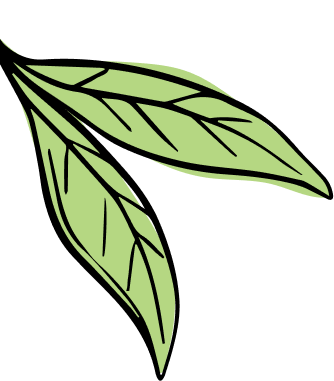
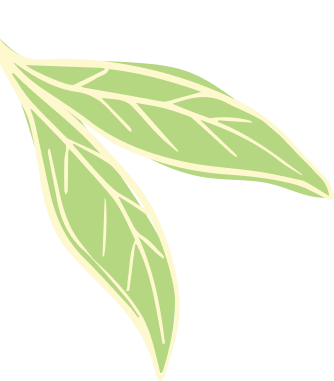
Add new vector images and enhance HeroSection layout with animated leaves and soup bowl

diff --git a/src/components/HeroSection/HeroSection.jsx b/src/components/HeroSection/HeroSection.jsx
@@ -5,11 +5,14 @@ import productWindow from "../../assets/images/vectors/product_window.png";
 import sakura from "../../assets/images/vectors/sakura.png";
 import "./HeroSection.scss";
 import checkered from "../../assets/images/vectors/checkered.png";
-import {
-  fetchShopifyProducts,
-  createShopifyCheckout,
-} from "../../utils/shopify";
+import { fetchShopifyProducts } from "../../utils/shopify";
 import Loading from "../Loading/Loading";
+
+import leaf1 from "../../assets/images/vectors/leaf1.png";
+import leaf2 from "../../assets/images/vectors/leaf2.png";
+import leaf3 from "../../assets/images/vectors/leaf3.png";
+import soupBowl from "../../assets/images/vectors/soup_bowl.png";
+import whisk from "../../assets/images/vectors/whisk.png";
 
 const HeroSection = ({ theme }) => {
   const imageRef = useRef(null);
@@ -17,6 +20,16 @@ const HeroSection = ({ theme }) => {
   const descRef = useRef(null);
   const originRef = useRef(null);
   const sakuraRef = useRef(null);
+  const homeTextRefs = useRef([]);
+
+  const leaf1Ref = useRef(null);
+  const leaf2Ref = useRef(null);
+  const leaf3Ref = useRef(null);
+  const leaf4Ref = useRef(null);
+  const soupBowlRef = useRef(null);
+  const whiskRef = useRef(null);
+
+  homeTextRefs.current = [];
 
   const [products, setProducts] = useState([]);
   const [current, setCurrent] = useState(0);
@@ -32,7 +45,18 @@ const HeroSection = ({ theme }) => {
   useEffect(() => {
     if (!products.length) return;
 
-    // Wait for refs to be attached to DOM
+    gsap.fromTo(
+      homeTextRefs.current,
+      { yPercent: 100, opacity: 0 },
+      {
+        yPercent: 0,
+        opacity: 1,
+        duration: 0.5,
+        stagger: 0.3,
+        ease: "power2.out",
+      }
+    );
+
     if (imageRef.current) {
       gsap.to(imageRef.current, {
         y: -10,
@@ -51,6 +75,9 @@ const HeroSection = ({ theme }) => {
   }, [products]);
 
   useEffect(() => {
+    window.history.scrollRestoration = "manual";
+    window.scrollTo(0, 0);
+
     const loadProducts = async () => {
       try {
         const data = await fetchShopifyProducts();
@@ -87,7 +114,7 @@ const HeroSection = ({ theme }) => {
     tl.to(
       sakuraRef.current,
       {
-        rotate: `+=${direction * 180}`, // rotates clockwise/counterclockwise
+        rotate: `+=${direction * 180}`,
         duration: 0.5,
         ease: "power2.inOut",
       },
@@ -146,16 +173,6 @@ const HeroSection = ({ theme }) => {
     handleSlide(-1);
   };
 
-  const handleBuyNow = async () => {
-    const currentProduct = products[current];
-    const variantId = currentProduct.variants.edges[0]?.node.id;
-
-    if (!variantId) return;
-
-    const checkoutUrl = await createShopifyCheckout(variantId);
-    window.location.href = checkoutUrl;
-  };
-
   if (products.length === 0) return <Loading />;
 
   const currentProduct = products[current];
@@ -168,9 +185,15 @@ const HeroSection = ({ theme }) => {
     >
       <div className="hero-content">
         <div className="home-text" style={{ color: theme.colors.beige }}>
-          <h2>UMI IS</h2>
-          <h2>SO MATCHA</h2>
-          <h2>BETTER</h2>
+          <div className="title-wrapper">
+            <h2 ref={(el) => (homeTextRefs.current[0] = el)}>UMI IS</h2>
+          </div>
+          <div className="title-wrapper">
+            <h2 ref={(el) => (homeTextRefs.current[1] = el)}>SO MATCHA</h2>
+          </div>
+          <div className="title-wrapper">
+            <h2 ref={(el) => (homeTextRefs.current[2] = el)}>BETTER</h2>
+          </div>
         </div>
 
         <div
@@ -215,17 +238,20 @@ const HeroSection = ({ theme }) => {
                     __html: `<strong>Price:</strong> ${currentProduct.variants.edges[0]?.node.price.amount} ${currentProduct.variants.edges[0]?.node.price.currencyCode}`,
                   }}
                 />
-                <div
-                  className="grid-item flower"
-                  onClick={handleBuyNow}
-                  style={{ cursor: "pointer" }}
-                >
+                <div className="grid-item flower" style={{ cursor: "pointer" }}>
                   <img src={sakura} alt="flower" ref={sakuraRef} />
                 </div>
               </div>
             </div>
           </div>
         </div>
+
+        <img src={leaf1} alt="" className="leaf1" ref={leaf1Ref} />
+        <img src={leaf2} alt="" className="leaf2" ref={leaf2Ref} />
+        <img src={leaf3} alt="" className="leaf3" ref={leaf3Ref} />
+        <img src={leaf1} alt="" className="leaf4" ref={leaf4Ref} />
+        <img src={soupBowl} alt="" className="soup-bowl" ref={soupBowlRef} />
+        <img src={whisk} alt="" className="whisk" ref={whiskRef} />
       </div>
       <img className="checkered" src={checkered} alt="" />
     </section>

diff --git a/src/components/HeroSection/HeroSection.scss b/src/components/HeroSection/HeroSection.scss
@@ -13,6 +13,50 @@
     width: 100%;
   }
 
+  .leaf1 {
+    position: absolute;
+    top: 0;
+    left: 0;
+    width: 230px;
+  }
+
+  .leaf2 {
+    position: absolute;
+    bottom: 30%;
+    left: 0;
+    width: 200px;
+  }
+
+  .leaf3 {
+    position: absolute;
+    top: 10%;
+    left: 30%;
+    width: 300px;
+  }
+
+  .leaf4 {
+    position: absolute;
+    bottom: 5%;
+    left: 0;
+    width: 200px;
+    transform: rotate(180deg) rotateY(180deg);
+  }
+
+  .soup-bowl {
+    position: absolute;
+    bottom: -5%;
+    right: 60%;
+    width: 300px;
+  }
+
+  .whisk {
+    position: absolute;
+    bottom: 12%;
+    right: 35%;
+    width: 350px;
+    z-index: 2;
+  }
+
   .hero-content {
     display: flex;
     justify-content: space-around;
@@ -20,13 +64,16 @@
     width: 100%;
 
     .home-text {
-      h2 {
-        font-size: 130px;
-        font-family: "Gliker";
-        text-shadow: 5px 5px 0px #b5d782;
-        font-weight: 900;
-        line-height: 1;
-        margin-left: 140px;
+      .title-wrapper {
+        overflow: hidden;
+        h2 {
+          font-size: 130px;
+          font-family: "Gliker";
+          text-shadow: 5px 5px 0px #b5d782;
+          font-weight: 900;
+          line-height: 1;
+          margin-left: 140px;
+        }
       }
     }
 
@@ -42,6 +89,7 @@
 
       .product-frame {
         position: absolute;
+        
         top: 0;
         left: 0;
         width: 100%;
@@ -53,6 +101,7 @@
 
       .slider {
         position: absolute;
+        overflow: hidden;
         height: 100%;
         display: flex;
         flex-direction: column;
